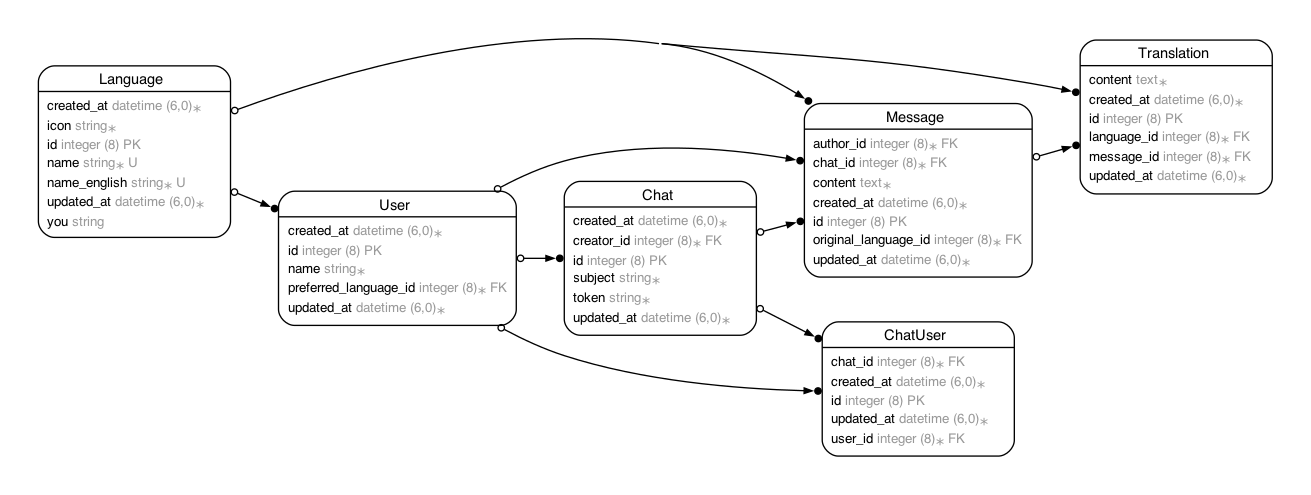
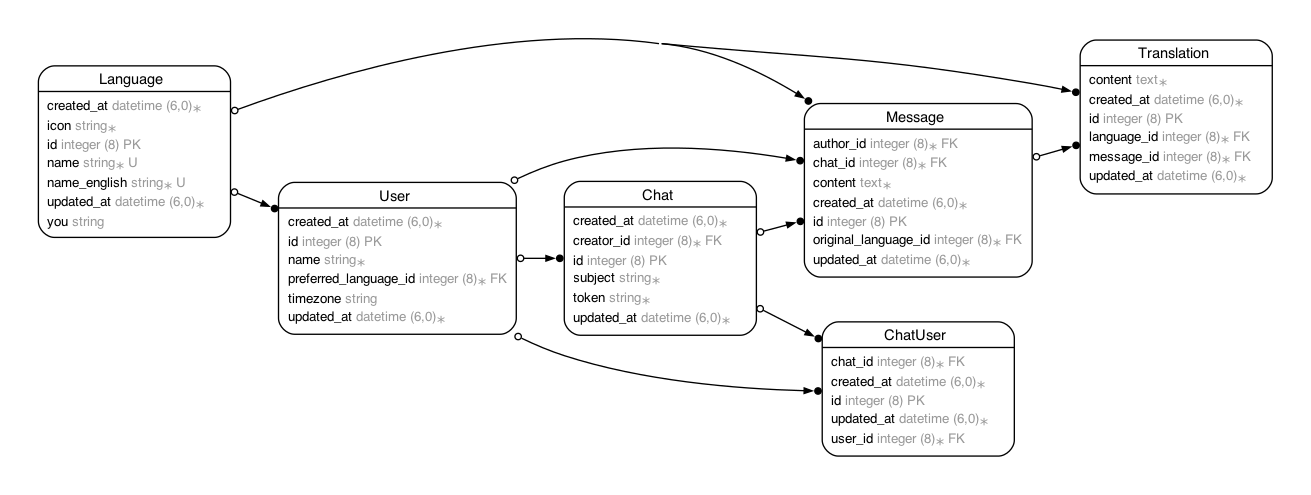
Add timezone support with automatic detection

Changed region(s): [[0.2136, 0.3636, 0.3966, 0.697]]

diff --git a/app/controllers/application_controller.rb b/app/controllers/application_controller.rb
@@ -4,6 +4,7 @@ class ApplicationController < ActionController::Base
   allow_browser versions: :modern
 
   before_action :set_current_user
+  around_action :set_time_zone, if: :current_user
 
   rescue_from Pundit::NotAuthorizedError, with: :user_not_authorized
 
@@ -13,7 +14,8 @@ class ApplicationController < ActionController::Base
     @_current_user ||= User.find_by(id: cookies.signed[:user_id])
 
     if @_current_user.blank?
-      @_current_user = User.create!
+      # Detect timezone for new users
+      @_current_user = User.create!(timezone: detect_timezone)
 
       cookies.signed[:user_id] = {
         value: @_current_user.id,
@@ -22,6 +24,15 @@ class ApplicationController < ActionController::Base
 
       flash.now[:notice] = "Signed in as #{@_current_user.name}."
     end
+  end
+
+  def set_time_zone(&block)
+    # Set Time.zone based on the user's timezone
+    Time.use_zone(current_user.timezone, &block)
+  end
+
+  def detect_timezone
+    TimezoneService.detect_timezone(request.remote_ip)
   end
 
   def current_user

diff --git a/db/schema.rb b/db/schema.rb
@@ -10,7 +10,7 @@
 #
 # It's strongly recommended that you check this file into your version control system.
 
-ActiveRecord::Schema[8.0].define(version: 2025_04_27_220903) do
+ActiveRecord::Schema[8.0].define(version: 2025_04_28_013217) do
   # These are extensions that must be enabled in order to support this database
   enable_extension "pg_catalog.plpgsql"
 
@@ -72,6 +72,7 @@ ActiveRecord::Schema[8.0].define(version: 2025_04_27_220903) do
     t.datetime "created_at", null: false
     t.datetime "updated_at", null: false
     t.bigint "preferred_language_id", null: false
+    t.string "timezone", default: "UTC"
     t.index ["preferred_language_id"], name: "index_users_on_preferred_language_id"
   end
 

diff --git a/app/services/timezone_service.rb b/app/services/timezone_service.rb
@@ -1,0 +1,24 @@
+require "net/http"
+require "json"
+
+class TimezoneService
+  def self.detect_timezone(ip_address)
+    url = URI.parse("http://ip-api.com/json/#{ip_address}?fields=status,message,timezone")
+    response = Net::HTTP.get_response(url)
+
+    if response.is_a?(Net::HTTPSuccess)
+      data = JSON.parse(response.body)
+
+      if data["status"] == "success" && data["timezone"].present?
+        data["timezone"]
+      else
+        "UTC" # Default timezone
+      end
+    else
+      "UTC" # Default timezone
+    end
+  rescue StandardError => e
+    Rails.logger.error("Timezone detection error: #{e.message}")
+    "UTC" # Default timezone
+  end
+end

diff --git a/app/models/user.rb b/app/models/user.rb
@@ -4,6 +4,7 @@
 #
 #  id                    :bigint           not null, primary key
 #  name                  :string           default("pending"), not null
+#  timezone              :string           default("UTC")
 #  created_at            :datetime         not null
 #  updated_at            :datetime         not null
 #  preferred_language_id :bigint           not null

diff --git a/app/controllers/users_controller.rb b/app/controllers/users_controller.rb
@@ -84,7 +84,7 @@ class UsersController < ApplicationController
 
     # Only allow a list of trusted parameters through.
     def user_params
-      params.expect(user: [ :name, :preferred_language_id ])
+      params.expect(user: [ :name, :preferred_language_id, :timezone ])
     end
 
     def authorize_user

diff --git a/db/migrate/20250428013217_add_timezone_to_users.rb b/db/migrate/20250428013217_add_timezone_to_users.rb
@@ -1,0 +1,5 @@
+class AddTimezoneToUsers < ActiveRecord::Migration[8.0]
+  def change
+    add_column :users, :timezone, :string, default: "UTC"
+  end
+end
